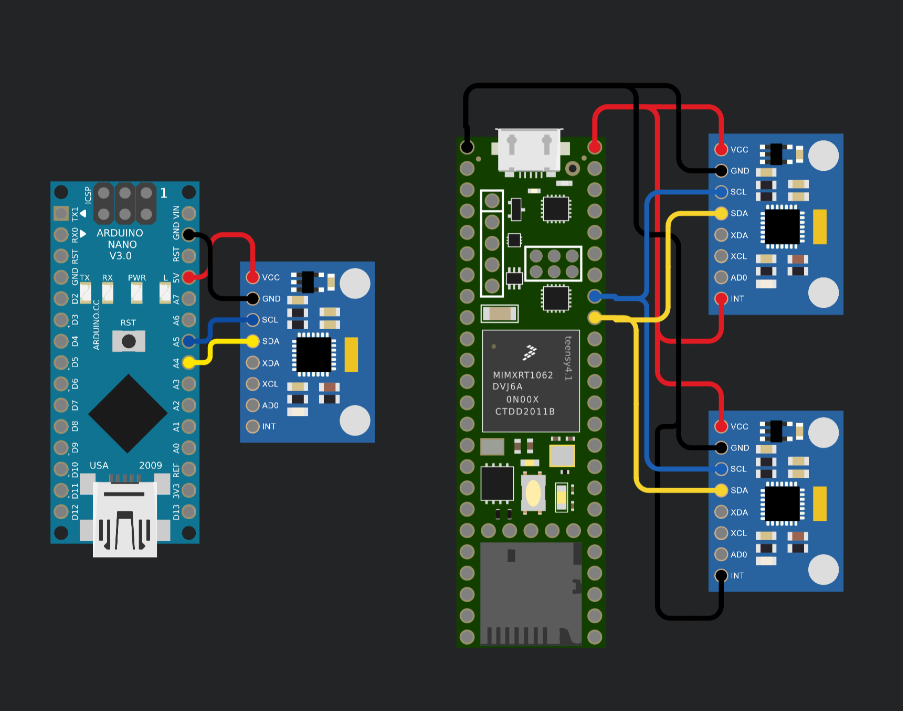
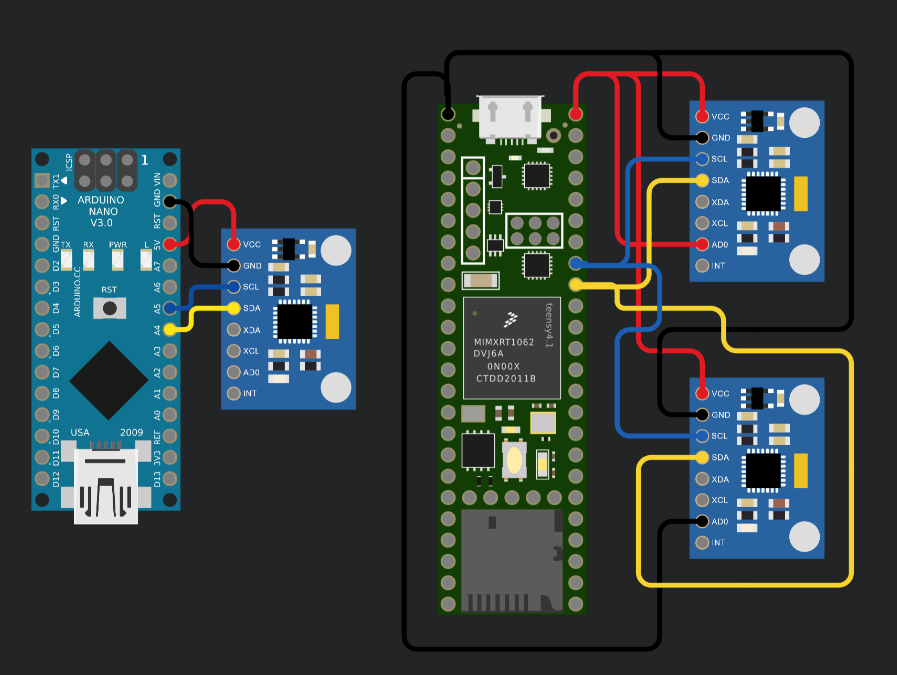
Actualizar conexiones en la documentación y reemplazar imagen de esquemas de conexión

diff --git a/README.md b/README.md
@@ -64,8 +64,8 @@ Lee datos de tres sensores MPU6050 (acelerómetro + giroscopio). El Nano gestion
 
 | Teensy   | MPU6050 (1) | MPU6050 (2) |
 | -------- | ----------- | ----------- |
-| 64 (5V)  | VCC & INT   | VCC         |
-| 12 (GND) | GND         | GND & INT   |
+| 64 (5V)  | VCC & AD0   | VCC         |
+| 12 (GND) | GND         | GND & AD0   |
 | 57       | SCL         | SCL         |
 | 56       | SDA         | SDA         |
 
